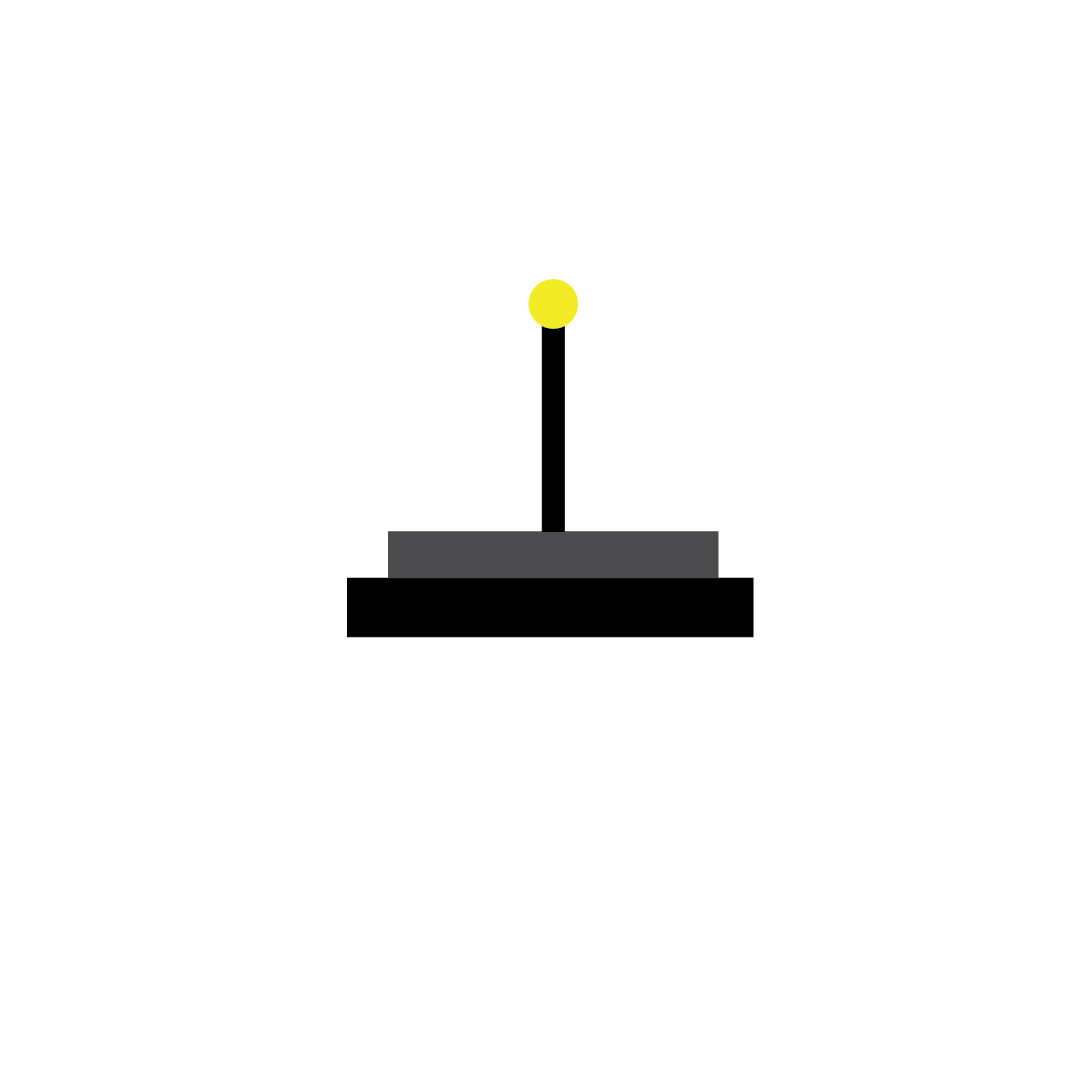
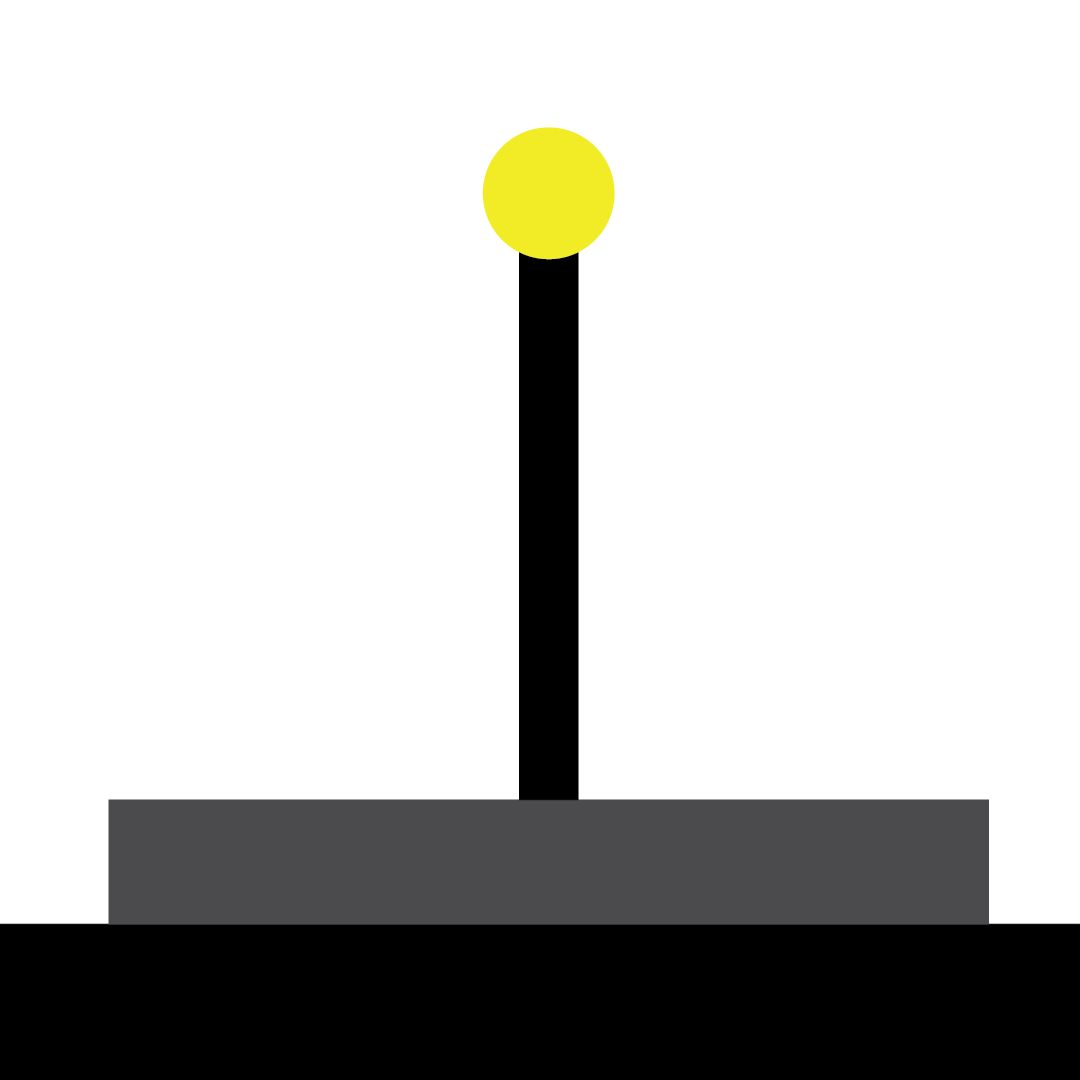
fixed joystick

diff --git a/main.py b/main.py
@@ -56,11 +56,11 @@ clawMachineIconYellow = pygame.transform.scale(clawMachineIconYellow, (100, 150)
 
 # Joystick
 joystickDefaultIcon = pygame.image.load("images/joystick_default.png")
-joystickDefaultIcon = pygame.transform.scale(joystickDefaultIcon, (250, 250))
+joystickDefaultIcon = pygame.transform.scale(joystickDefaultIcon, (100, 100))
 joystickLeft = pygame.image.load("images/joystick_left.png")
-joystickLeft = pygame.transform.scale(joystickLeft, (250, 250))
+joystickLeft = pygame.transform.scale(joystickLeft, (100, 100))
 joystickRight = pygame.image.load("images/joystick_right.png")
-joystickRight = pygame.transform.scale(joystickRight, (250, 250))
+joystickRight = pygame.transform.scale(joystickRight, (100, 100))
 
 # Start Button
 startButton_x, startButton_y, startButton_width, startButton_height = 350, 550, 100, 40
@@ -341,7 +341,7 @@ while gaming:
     screen.blit(background, (0, 0))
     if event.type == pygame.QUIT:
         gaming = False
-    joystickDefault(-50, 450, joy_z)
+    joystickDefault(25, 500, joy_z)
     claw(claw_x, claw_y)
     screen.blit(startButton, (startButton_x, startButton_y))
     screen.blit(dropButton, (dropButton_x, dropButton_y))
@@ -374,7 +374,7 @@ while gaming:
                 START_DROP, onDropButton = button_clicked_off(drop_rect, START_DROP, onDropButton)
             claw_xChange, joy_z = move_claw(claw_x)
             claw_x += claw_xChange
-            joystickDefault(-50, 450, joy_z)
+            joystickDefault(25, 500, joy_z)
             claw(claw_x, claw_y)
 
         if START_DROP:
